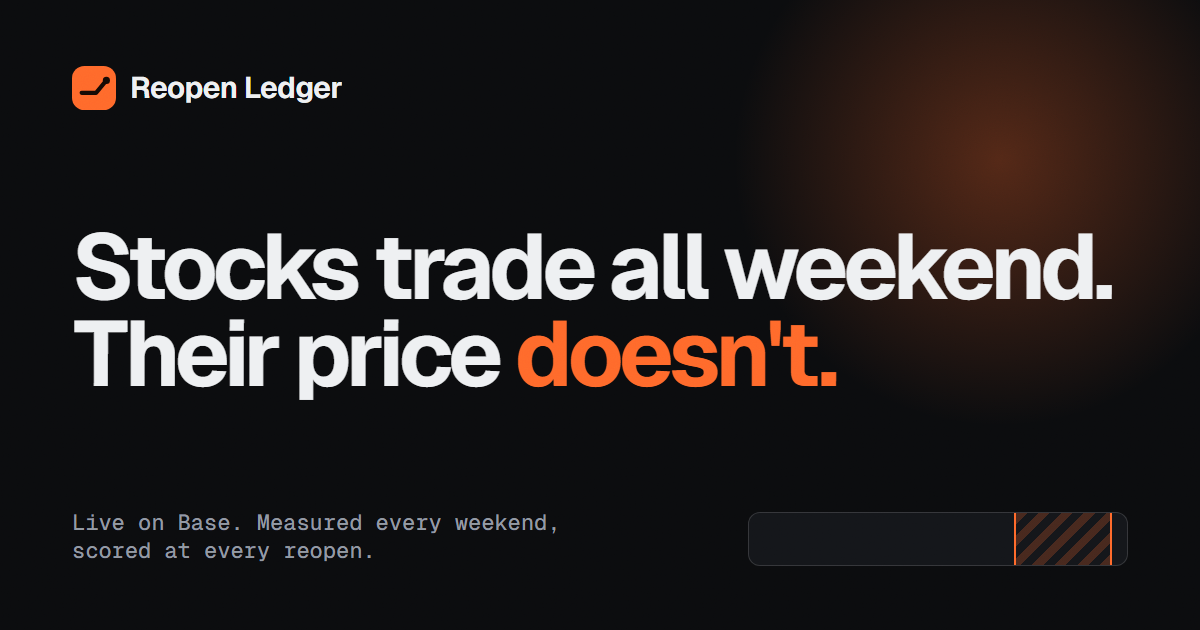
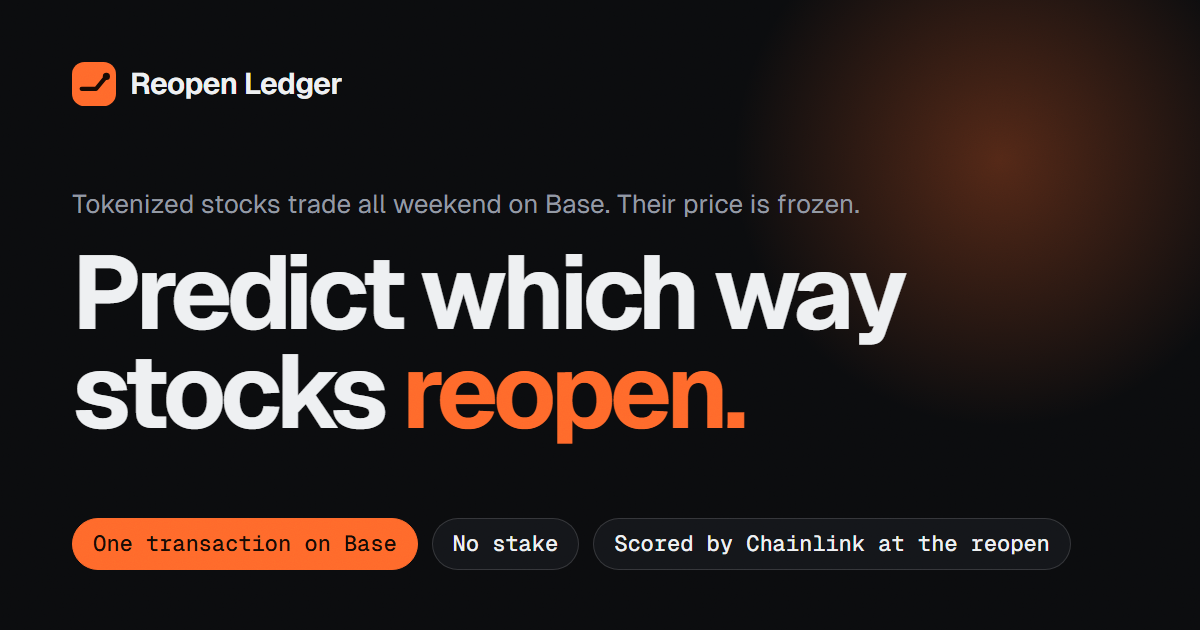
Update from the working repository

diff --git a/site/static/style.css b/site/static/style.css
@@ -310,3 +310,24 @@ footer p { margin: 0; max-width: 78ch; line-height: 1.55; }
 .live-dot { width: 7px; height: 7px; border-radius: 50%; background: var(--accent); box-shadow: 0 0 0 4px var(--accent-soft); }
 @media (prefers-reduced-motion: no-preference) { .live-dot { animation: pulse 1.8s var(--ease) infinite; } }
 .chart.narrow { max-width: 720px; margin: 8px 0 24px; }
+
+/* prediction-first hero */
+.hero .kicker { grid-column: 1 / -1; display: flex; align-items: center; gap: 12px; margin: 0 0 -14px; font-size: clamp(16px, 1.5vw, 19px); color: var(--muted); }
+.pick-q { font-size: 14px; color: var(--muted); padding: 16px 0 4px; }
+.pick-q b { color: var(--fg); font-weight: 600; }
+.pick { display: grid; grid-template-columns: minmax(0, 1fr) minmax(0, 1.1fr) 52px; gap: 14px; align-items: center; padding: 9px 0; border-bottom: 1px solid var(--line); }
+.pick label { display: flex; flex-direction: column; gap: 2px; min-width: 0; }
+.pick .s { font-weight: 650; letter-spacing: -.01em; font-size: 15px; }
+.pick .n { color: var(--dim); font-size: 12px; white-space: nowrap; overflow: hidden; text-overflow: ellipsis; }
+.pick output { text-align: right; font: 600 16px/1 var(--mono); font-variant-numeric: tabular-nums; color: var(--accent-text); }
+.pick-go { display: flex; align-items: center; gap: 14px; flex-wrap: wrap; padding: 16px 0 14px; }
+.pick-go span { font-size: 13px; color: var(--muted); }
+.hero .wrap { grid-template-columns: minmax(0, 1.3fr) minmax(0, .9fr); grid-template-rows: auto auto 1fr; gap: 26px 56px; }
+.hero .kicker { grid-column: 1; margin: 8px 0 0; }
+.hero h1 { grid-column: 1; font-size: clamp(42px, 4.9vw, 70px); }
+.hero .intro { grid-column: 1; }
+.hero .panel { grid-column: 2; grid-row: 1 / span 3; }
+.hero .panel .clock { font-size: clamp(30px, 3.4vw, 42px); }
+@media (max-width: 960px) { .hero .kicker, .hero h1, .hero .intro, .hero .panel { grid-column: 1 / -1; grid-row: auto; } .hero h1 span { display: inline; } }
+.steps.three { grid-template-columns: repeat(3, minmax(0, 1fr)); }
+@media (max-width: 860px) { .steps.three { grid-template-columns: 1fr; } }

diff --git a/site/static/commit.js b/site/static/commit.js
@@ -58,6 +58,13 @@ async function main() {
     sel.appendChild(o);
   }
   const list = document.getElementById("tokens");
+  // picks carried over from the landing page, e.g. ?p=NVDAc:62,TSLAc:41
+  const preset = new Map();
+  for (const kv of (new URLSearchParams(location.search).get("p") || "").split(",")) {
+    const [sym, val] = kv.split(":");
+    const n = Number(val);
+    if (sym && Number.isInteger(n) && n >= 0 && n <= 100) preset.set(sym, n);
+  }
   if (!open.ledger) { status.textContent = "The contract is not deployed yet; records open at launch."; return; }
   for (const t of open.slate) {
     const row = document.createElement("div");
@@ -70,6 +77,8 @@ async function main() {
     const input = row.querySelector("input");
     const out = row.querySelector("output");
     input.addEventListener("input", () => { out.textContent = `${input.value}%`; });
+    const v = preset.get(t.symbol);
+    if (v !== undefined) { input.value = String(v); out.textContent = `${v}%`; }
   }
   document.getElementById("ledger").textContent = open.ledger.address;
   document.getElementById("commit").addEventListener("click", async () => {
@@ -85,7 +94,7 @@ async function main() {
       const data = calldata(Number(sel.value), encodeCalls(calls), open.builder_codes || []);
       status.textContent = "Waiting for the wallet...";
       const hash = await eth.request({ method: "eth_sendTransaction", params: [{ from, to: open.ledger.address, data, value: "0x0" }] });
-      status.innerHTML = `On the record: transaction <code>${hash}</code>. The first record per wallet and window is the one that is scored; your probabilities appear on the board after the window resolves.`;
+      status.innerHTML = `On the record: transaction <a href="https://basescan.org/tx/${hash}"><code>${hash}</code></a>. The first record per wallet and window is the one that is scored; your probabilities appear on the board after the window resolves.`;
     } catch (e) {
       status.textContent = `Not sent: ${e && e.message ? e.message : e}`;
     }

diff --git a/site/static/site.js b/site/static/site.js
@@ -46,6 +46,18 @@
   }
   tick(); setInterval(tick, 1000);
 
+  // hero prediction card: sliders carry their values to the full form
+  const go = document.getElementById("hp-go");
+  if (go) {
+    const picks = $$(".pick input[type=range]");
+    const sync = () => {
+      go.href = "commit.html?p=" + picks.map((i) => `${i.dataset.sym}:${i.value}`).join(",");
+      for (const i of picks) i.parentElement.querySelector("output").textContent = `${i.value}%`;
+    };
+    for (const i of picks) i.addEventListener("input", sync);
+    sync();
+  }
+
   // shock toggle
   const ab = data("absorb-data");
   const usd = (v) => v >= 1e6 ? `$${(v / 1e6).toFixed(2)}M` : v >= 1e3 ? `$${(v / 1e3).toFixed(1)}k` : `$${Math.round(v)}`;

diff --git a/src/callrec/site.py b/src/callrec/site.py
@@ -23,9 +23,11 @@ from . import config, identity
 
 NAV = [("absorb.html", "Absorb"), ("tape.html", "Weekend tape"), ("board.html", "Board"),
        ("registry.html", "Registry"), ("methods.html", "Methods"), ("data.html", "Data")]
-CTA = ("commit.html", "Call the reopen")
-DESCRIPTION = ("Tokenized stocks trade on Base all weekend while their reference price sits frozen. Reopen Ledger "
-               "measures the gap and scores calls on the reopen. Measurements, not verdicts.")
+CTA = ("commit.html", "Predict the reopen")
+DESCRIPTION = ("Predict which way tokenized stocks reopen after the weekend. One transaction on Base, no stake, "
+               "scored against Chainlink at the reopen. Plus the data on what a frozen weekend price means for "
+               "lending markets. Measurements, not verdicts.")
+FEATURED = ("NVDAc", "TSLAc", "AAPLc", "GOOGLc", "MSFTc", "METAc", "AMZNc")
 MARK = ('<svg viewBox="0 0 32 32" aria-hidden="true"><rect width="32" height="32" rx="9" fill="var(--accent)"/>'
         '<path d="M7 19.5h10.5L25 10.5" fill="none" stroke="var(--accent-ink)" stroke-width="3" stroke-linecap="round" '
         'stroke-linejoin="round"/><circle cx="25" cy="10.5" r="2.6" fill="var(--accent-ink)"/></svg>')
@@ -140,23 +142,36 @@ def _week(as_of_ms: int, spans: list[dict]) -> str:
             f'{days}{frz}<div class="now" hidden></div></div></div>')
 
 
-def _hero_board(export_dir: Path, as_of: str) -> str:
-    """The freeze clock and the reference values the export read, for the tokens with a feed."""
-    rows = []
+def _hero_board(export_dir: Path, as_of: str, open_w: list[dict] | None = None) -> str:
+    """The freeze clock over a working mini prediction card: four featured stocks of the open slate (or of the
+    feeds, when no window is open), each with its Chainlink reference value and a probability slider. The
+    button carries the picks to the full form; nothing is sent from here."""
+    feeds = {}
     for f in sorted((export_dir / "feed").glob("*.json")):
         d = read_json(f, {})
         ref = d.get("reference") or {}
-        if ref.get("value") is None:
-            continue
-        rows.append((d.get("symbol", ""), ref["value"], d.get("token", "")))
+        if ref.get("value") is not None:
+            feeds[d.get("symbol", "")] = (ref["value"], d.get("token", ""))
+    slate_syms = None
+    for w in open_w or []:
+        if w.get("open_for_records"):
+            slate_syms = {s for s, (_, t) in feeds.items() if t in set(w.get("slate", []))}
+            break
+    pick = [s for s in FEATURED if s in feeds and (slate_syms is None or s in slate_syms)][:4]
     names = {t["address"]: t.get("name") for t in json.loads((config.config_dir() / "tokens.json").read_text(encoding="utf-8"))["tokens"]}
-    lis = "".join(f'<li><span class="s">{esc(s)}</span><span class="n">{esc((names.get(t) or "").replace(" Inc.", "").replace(" Corporation", ""))}</span>'
-                  f'<span class="v">${v:,.2f}</span></li>' for s, v, t in rows[:6])
+    rows = "".join(
+        f'<div class="pick"><label for="hp-{esc(s)}"><span class="s">{esc(s)}</span>'
+        f'<span class="n">{esc((names.get(feeds[s][1]) or "").replace(" Inc.", "").replace(" Corporation", ""))} '
+        f'&middot; ${feeds[s][0]:,.2f}</span></label>'
+        f'<input type="range" min="0" max="100" value="50" id="hp-{esc(s)}" data-sym="{esc(s)}" aria-label="Probability {esc(s)} reopens higher">'
+        f'<output for="hp-{esc(s)}">50%</output></div>' for s in pick)
     return (f'<div class="panel board-live" aria-live="off"><div class="head"><div>'
             f'<span class="state" id="state"><i></i><span>Reference</span></span>'
             f'<div class="clock" id="clock">--:--:--</div><div class="clock-k" id="clock-k">Freeze clock</div></div></div>'
-            f'<ul class="ticks">{lis}</ul>'
-            f'<div class="foot">Chainlink reference values on Base, read {esc(_utc_label(as_of))}. Refreshed daily.</div></div>')
+            f'<div class="pick-q">Chance each one reopens <b>higher</b>:</div>{rows}'
+            f'<div class="pick-go"><a class="btn primary" id="hp-go" href="{CTA[0]}">Commit on Base <span class="arr">&rarr;</span></a>'
+            f'<span>One transaction. No stake, gas only.</span></div>'
+            f'<div class="foot">Chainlink reference values on Base, read {esc(_utc_label(as_of))}.</div></div>')
 
 
 def _utc_label(iso: str) -> str:
@@ -223,7 +238,7 @@ def build_site(export_dir: Path, out: Path) -> list[str]:
     as_of_ms = int(datetime.fromisoformat(as_of.replace("Z", "+00:00")).timestamp() * 1000) if as_of != "?" else 0
     pages["index.html"] = page("index.html", "Overview", _landing(
         export_dir, as_of, as_of_ms, closed, ts, absorb, sym, read_json(export_dir / "baselines.json", {}),
-        board, usage), as_of, landing=True)
+        board, usage, open_w), as_of, landing=True)
 
     # --- board
     missing = house_checks.get("house_commit_missing", [])
@@ -279,7 +294,7 @@ def build_site(export_dir: Path, out: Path) -> list[str]:
     pages["absorb.html"] = page("absorb.html", "Absorb", _absorb_page(absorb, sym), as_of)
 
     # --- commit
-    pages["commit.html"] = page("commit.html", "Put a call on the record", _commit_page(open_w), as_of) \
+    pages["commit.html"] = page("commit.html", "Predict the reopen", _commit_page(open_w), as_of) \
         .replace("</body>", '<script src="commit.js"></script></body>')
 
     # --- registry
@@ -351,7 +366,7 @@ def _short_usd(v: float) -> tuple[str, str]:
 
 
 def _landing(export_dir: Path, as_of: str, as_of_ms: int, closed: list[dict], ts: dict, absorb: dict | None,
-             sym: dict, baselines: dict, board: dict, usage: dict) -> str:
+             sym: dict, baselines: dict, board: dict, usage: dict, open_w: list[dict] | None = None) -> str:
     sp = _spans(as_of_ms) if as_of_ms else {"spans": []}
     led = _ledger()
     n_weekends = len({t["window"] for t in closed})
@@ -362,13 +377,14 @@ def _landing(export_dir: Path, as_of: str, as_of_ms: int, closed: list[dict], ts
     hit = cb.get("direction_hit_rate")
 
     hero = (f'<section class="hero"><div class="wrap">'
-            f'<h1><span>Stocks trade all weekend.</span> <span>Their price <span class="accent">doesn\'t.</span></span></h1>'
-            f'<div class="intro"><span class="eyebrow"><i class="live-dot"></i>{"Live on Base mainnet" if led.get("address") else "On Base"}</span>'
-            f'<p class="lede">Tokenized stocks keep trading on Base while their reference price sits frozen for two days. '
-            f'We measure the gap and score every call on the reopen.</p>'
+            f'<p class="kicker"><i class="live-dot"></i>Tokenized stocks trade all weekend on Base. Their price is frozen.</p>'
+            f'<h1><span>Predict which way</span> <span>stocks <span class="accent">reopen.</span></span></h1>'
+            f'<div class="intro">'
+            f'<p class="lede">Give each stock a probability it reopens higher. One transaction on Base, no stake. '
+            f'Chainlink\'s price scores you at the reopen.</p>'
             f'<div class="cta-row"><a class="btn primary" href="{CTA[0]}">{esc(CTA[1])} <span class="arr">&rarr;</span></a>'
-            f'<a class="btn" href="tape.html">See the weekend tape</a></div></div>'
-            f'{_hero_board(export_dir, as_of)}</div></section>')
+            f'<a class="btn" href="board.html">See the board</a></div></div>'
+            f'{_hero_board(export_dir, as_of, open_w)}</div></section>')
 
     tiles = (f'<div class="bento">'
              f'<div class="tile hot rv"><span class="k">Borrowed against stock tokens</span><div>'
@@ -382,16 +398,15 @@ def _landing(export_dir: Path, as_of: str, as_of_ms: int, closed: list[dict], ts
              f'<div class="tile s3 rv" style="--i:2"><div class="big">{ts.get("median_error_bps", 0):,.0f}<small>bps</small></div>'
              f'<p>median miss of the last-hour weekend DEX price against the reopen value.</p></div>'
              f'</div>')
-    numbers = (f'<section class="band"><div class="wrap"><h2 class="rv">Millions ride on a price that stops.</h2>'
-               f'<p class="lede rv">Lending markets on Base read one reference per stock. On weekends and holidays it '
-               f'stands still while the tokens keep moving.</p>{tiles}</div></section>')
+    numbers = (f'<section class="band"><div class="wrap"><h2 class="rv">Why the reopen matters.</h2>'
+               f'<p class="lede rv">Lending markets on Base price these stocks off the same frozen feed. Millions ride on '
+               f'what it shows when it comes back.</p>{tiles}</div></section>')
 
-    week = (f'<section class="band tight"><div class="wrap"><h2 class="rv">How a weekend plays out.</h2>{_week(as_of_ms, sp["spans"])}'
-            f'<div class="steps">'
-            f'<div class="rv"><b>Fri 20:00 ET</b><strong>The reference freezes</strong><p>Chainlink stops updating. The tokens keep trading in Base pools.</p></div>'
-            f'<div class="rv" style="--i:1"><b>All weekend</b><strong>The tape runs</strong><p>We read every swap and measure how far the pools drift from the frozen price.</p></div>'
-            f'<div class="rv" style="--i:2"><b>Sun 18:00 ET</b><strong>Calls close</strong><p>Anyone, human or agent, puts a probability per token on the record. One transaction.</p></div>'
-            f'<div class="rv" style="--i:3"><b>Sun 20:00 ET</b><strong>The reopen scores it</strong><p>Every call is scored against the reference feed, and against the weekend DEX price.</p></div>'
+    week = (f'<section class="band tight"><div class="wrap"><h2 class="rv">Three steps, every weekend.</h2>{_week(as_of_ms, sp["spans"])}'
+            f'<div class="steps three">'
+            f'<div class="rv"><b>Before Sun 18:00 ET</b><strong>Make your prediction</strong><p>Give each stock a probability that it reopens above Friday\'s frozen price. People and agents alike.</p></div>'
+            f'<div class="rv" style="--i:1"><b>One transaction</b><strong>Commit it on Base</strong><p>It goes on the record in a contract that holds no funds. Nothing is staked; you pay gas only.</p></div>'
+            f'<div class="rv" style="--i:2"><b>Sun 20:00 ET</b><strong>Get scored at the reopen</strong><p>Chainlink\'s price comes back and scores every prediction. The board ranks forecasters across weekends.</p></div>'
             f'</div></div></section>')
 
     absorb_sec = ""
@@ -446,9 +461,9 @@ def _landing(export_dir: Path, as_of: str, as_of_ms: int, closed: list[dict], ts
                  f'<span class="chip">Builder Code <b>{esc(led.get("builder_code", ""))}</b></span>'
                  f'<span class="chip">Base mainnet</span></div>')
     agents = (f'<section class="band"><div class="wrap split"><div>'
-              f'<h2 class="rv">Your call, on the record.</h2>'
-              f'<p class="lede rv">Commit a probability per token before the cutoff. The contract holds no funds and moves nothing: '
-              f'it emits an event, and the reopen scores it. Agents need one function.</p>{chips}'
+              f'<h2 class="rv">Built for agents too.</h2>'
+              f'<p class="lede rv">An agent predicts with one function call: same contract, same scoring, same board. '
+              f'The contract holds no funds and moves nothing; it records the prediction and the reopen scores it.</p>{chips}'
               f'<div class="cta-row"><a class="btn primary" href="{CTA[0]}">{esc(CTA[1])} <span class="arr">&rarr;</span></a>'
               f'<a class="btn" href="board.html">See the board</a></div></div><div class="rv">{code}</div></div></section>')
 
@@ -460,7 +475,7 @@ def _landing(export_dir: Path, as_of: str, as_of_ms: int, closed: list[dict], ts
               f'<div class="rv" style="--i:3"><strong>Open</strong><p>Code under Apache-2.0, data under CC BY 4.0. <a href="{identity.REPO_URL}">Read the code</a>.</p></div>'
               '</div></div></section>')
     spans_json = f'<script type="application/json" id="spans">{json.dumps(sp)}</script>'
-    return hero + numbers + week + absorb_sec + tape_sec + agents + closer + spans_json
+    return hero + week + numbers + absorb_sec + tape_sec + agents + closer + spans_json
 
 
 def _next_friday(spans: list[dict], as_of_ms: int) -> str:
@@ -489,7 +504,7 @@ def _board_table(rows: list[dict]) -> str:
     if not rows:
         return ('<div class="empty"><strong>No records have resolved yet.</strong>The ledger went live on Base on '
                 'Nov 14, 2026. The first records resolve at the next reopen; every forecaster appears here once a '
-                'window it committed to has been scored. <a href="commit.html">Put a call on the record</a>.</div>')
+                'window it committed to has been scored. <a href="commit.html">Make a prediction</a>.</div>')
     out = []
     for f in rows:
         c = f["committer"].lower()
@@ -639,11 +654,10 @@ def _markets_table(markets: list[dict], sym: dict | None = None) -> str:
 
 
 def _commit_page(open_w: list[dict]) -> str:
-    return ('<h1>Put a call on the record</h1>'
-            '<p class="lede">One transaction to a contract that holds no funds and stores nothing: it emits your '
-            'probabilities, per token, that the reference value ends the window above where it started. After the '
-            'window closes, the record is scored against the Chainlink reference feed. The first record per wallet '
-            'and window is the scored one.</p>'
+    return ('<h1>Predict the reopen</h1>'
+            '<p class="lede">Give each stock a probability that it reopens higher than its frozen price. One '
+            'transaction sends them to a contract that holds no funds; after the window closes, Chainlink\'s price '
+            'scores every prediction. Your first prediction per window is the one that counts.</p>'
             '<div class="note">This records a forecast. It does not touch any token, route anything or move any value; '
             'the transaction carries no ETH beyond gas. Your probabilities appear on the board only after the window resolves.</div>'
             '<div class="card formcard"><p><label for="window">Window</label><br><select id="window"></select></p>'

diff --git a/src/callrec/drafts.py b/src/callrec/drafts.py
@@ -53,18 +53,11 @@ def render_launch(export_dir: Path) -> str:
     lines = [f"# Launch post (draft, from export {export_dir.name}, data as of {m.get('as_of_utc')})", "",
              f"To post on X with the demo video, tagging @buildonbase. Site: {identity.SITE_URL} "
              "Every number below comes from the export named above.", "", "---", ""]
-    t1 = ("Coinbase's tokenized stocks trade around the clock on Base. Their reference price doesn't: the "
-          "Chainlink feed that lending markets read is frozen from Friday 20:00 to Sunday 20:00 ET, and on market "
-          "holidays. We measured what happens in between, every weekend since Aug 24.")
+    t1 = ("Tokenized stocks trade all weekend on Base. Their reference price is frozen until Sunday 20:00 ET. "
+          "Reopen Ledger: predict which way each stock reopens. One transaction, no stake, scored by Chainlink "
+          "at the reopen. " + identity.SITE_URL)
     lines += ["**1/**", t1, ""]
-    if st:
-        lines += ["**2/**", (f"Across {st['windows']} closed spans and {st['n']} token-weekends, the reference moved a "
-                             f"median {st['median_reopen_bps']:.0f} bps from the frozen value to the reopen (largest "
-                             f"{st['max_reopen_bps']:.0f} bps). In the hour before the cutoff, the DEX price sat a median "
-                             f"{st['median_gap_bps']:.0f} bps from the frozen value and finished {st['median_error_bps']:.0f} bps "
-                             f"from the reopen value. It was closer to the reopen than the frozen value was in "
-                             f"{st['dex_closer_than_frozen']} of {st['n']} cases, and it pointed the right way in "
-                             f"{st['direction_agree']} of the {st['direction_n']} where both moves exceeded 10 bps."), ""]
+    n = 2
     if ab and ab.get("lending_totals"):
         tot = ab["lending_totals"]["total"]
         coll, debt = tot["collateral_usd"], tot["debt_usd"]
@@ -73,20 +66,28 @@ def render_launch(export_dir: Path) -> str:
         l10 = sum((r["liquidation_flow_usd"] or {}).get("10") or 0 for r in rows)
         l20 = sum((r["liquidation_flow_usd"] or {}).get("20") or 0 for r in rows)
         d20 = sum((r["absorb_5pct_below_usd"] or {}).get("20") or 0 for r in rows)
-        lines += ["**3/**", (f"Lending against these tokens is small today: {_usd(debt)} of USDC borrowed against "
-                             f"{_usd(coll)} of stock collateral on Aave V4 and Morpho. The numbers are the point, not the "
-                             "size. They show what this market structure does once lending grows."), "",
-                  "**4/**", (f"Shock each token's reference 10% lower, one token at a time, and add it up: these markets would "
-                             f"liquidate {_usd(l10)} of collateral at the reopen, and the token pools hold {_usd(d10)} in the "
-                             f"5% below the shocked prices. At 20%: {_usd(l20)} against {_usd(d20)}. That uses the oracle each "
-                             "market reads and each protocol's own liquidation rules. A joint move would liquidate more, "
-                             "since many borrowers post several stocks. Onchain absorption only."), ""]
-    lines += ["**5/**", ("Now the open question: can anyone call the reopen better than the weekend market does? Put a "
-                         "call on the record: one transaction, a probability per token, no funds, no trading. It's scored "
-                         "against the Chainlink feed after the window closes. Agents can do it with one function and keep "
-                         "their own Builder Code."), "",
-              "**6/**", ("Every number is replayable from the published chain logs. Each daily export is signed, and its "
-                         "hash goes on chain. Measurements, not verdicts. Methods, data and the board: " + identity.SITE_URL + ""), "",
+        lines += [f"**{n}/**", (f"Why the reopen matters: {_usd(debt)} of USDC is borrowed against {_usd(coll)} of these "
+                                "stock tokens on Aave V4 and Morpho, priced by that same feed. Nothing can be liquidated "
+                                "while it is frozen; it all lands at the reopen."), "",
+                  f"**{n + 1}/**", (f"Shock each token's reference 10% lower, one token at a time, and add it up: these markets would "
+                                    f"liquidate {_usd(l10)} of collateral at the reopen, and the token pools hold {_usd(d10)} in the "
+                                    f"5% below the shocked prices. At 20%: {_usd(l20)} against {_usd(d20)}. That uses the oracle each "
+                                    "market reads and each protocol's own liquidation rules. Onchain absorption only."), ""]
+        n += 2
+    if st:
+        lines += [f"**{n}/**", (f"Is the weekend DEX price a good guess? Across {st['windows']} closed spans and {st['n']} token-weekends, the reference moved a "
+                             f"median {st['median_reopen_bps']:.0f} bps from the frozen value to the reopen (largest "
+                             f"{st['max_reopen_bps']:.0f} bps). In the hour before the cutoff, the DEX price sat a median "
+                             f"{st['median_gap_bps']:.0f} bps from the frozen value and finished {st['median_error_bps']:.0f} bps "
+                             f"from the reopen value. It was closer to the reopen than the frozen value was in "
+                             f"{st['dex_closer_than_frozen']} of {st['n']} cases, and it pointed the right way in "
+                             f"{st['direction_agree']} of the {st['direction_n']} where both moves exceeded 10 bps. "
+                             "Can you do better? Prove it on the record."), ""]
+        n += 1
+    lines += [f"**{n}/**", ("Agents welcome: an agent predicts with one function call, keeps its own Builder Code, and "
+                            "lands on the same board as everyone else. Scores post at every reopen."), "",
+              f"**{n + 1}/**", ("Every number is replayable from the published chain logs. Each daily export is signed, and its "
+                                "hash goes on chain. Measurements, not verdicts. Methods, data and the board: " + identity.SITE_URL + ""), "",
               "[demo video]", ""]
     return "\n".join(lines)
 
